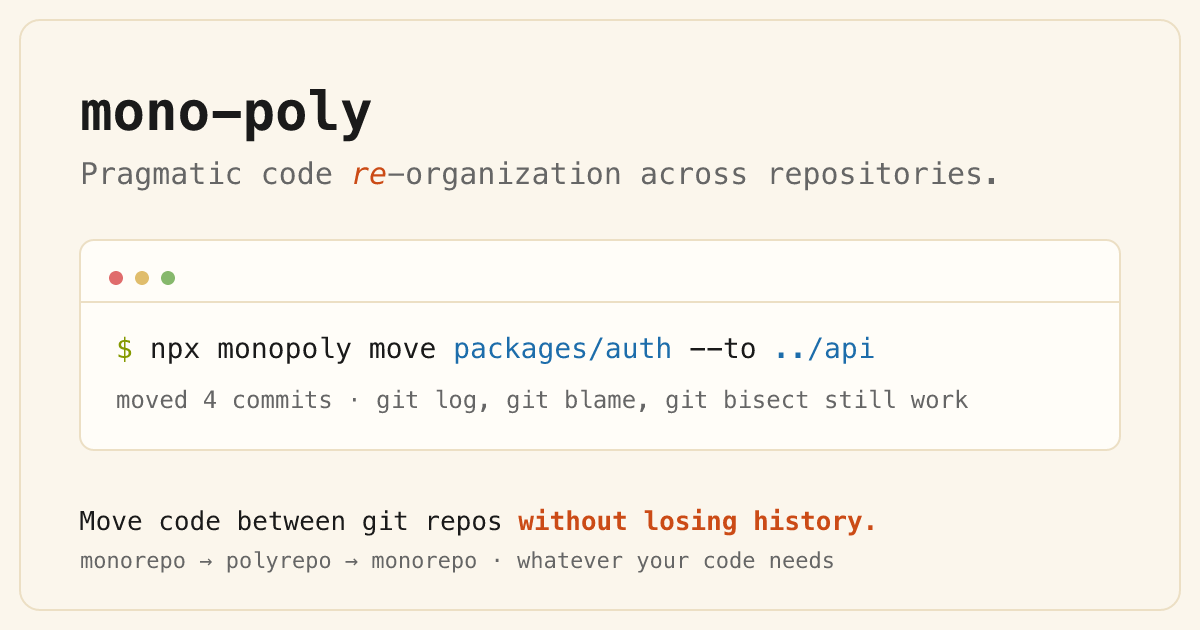
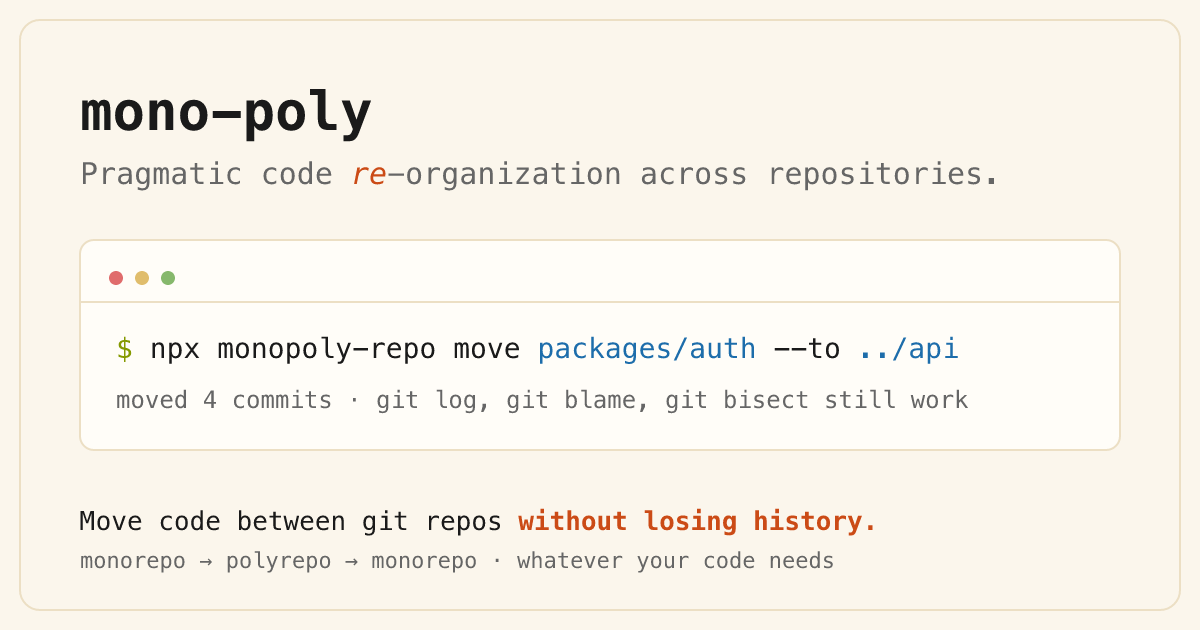
Prepare CLI for npm publish as monopoly-repo
The bare `monopoly` name is taken on npm, so publish under the available
`monopoly-repo` name (binary command stays `monopoly`).

- cli/package.json: rename to monopoly-repo, add license/keywords/engines,
  repository/homepage/bugs metadata, and publishConfig.access=public
- root package.json: rename to monopoly-workspace to avoid a workspace
  name collision with the published package
- add MIT LICENSE (root + cli) and cli/README.md for the npm page
- tsconfig: set rootDir to clear the outDir diagnostic
- update all docs/site/examples to the npx monopoly-repo syntax and
  regenerate the OG image to match

Changed region(s): [[0.3083, 0.5429, 0.8017, 0.573]]

diff --git a/site/scripts/generate-og.ts b/site/scripts/generate-og.ts
@@ -43,7 +43,7 @@ const svg = `<svg xmlns="http://www.w3.org/2000/svg" width="1200" height="630" v
   <line x1="80" y1="302" x2="1120" y2="302" stroke="${BORDER}" stroke-width="2"/>
 
   <text x="116" y="358" font-family="SFMono-Regular, Menlo, monospace" font-size="28">
-    <tspan fill="${PROMPT}">$ </tspan><tspan fill="${FG}">npx monopoly move </tspan><tspan fill="${ACCENT}">packages/auth</tspan><tspan fill="${FG}"> --to </tspan><tspan fill="${ACCENT}">../api</tspan>
+    <tspan fill="${PROMPT}">$ </tspan><tspan fill="${FG}">npx monopoly-repo move </tspan><tspan fill="${ACCENT}">packages/auth</tspan><tspan fill="${FG}"> --to </tspan><tspan fill="${ACCENT}">../api</tspan>
   </text>
   <text x="116" y="408" font-family="SFMono-Regular, Menlo, monospace" font-size="24" fill="${MUTED}">moved 4 commits · git log, git blame, git bisect still work</text>
 

diff --git a/cli/README.md b/cli/README.md
@@ -1,0 +1,52 @@
+# monopoly-repo
+
+> Move code between git repos without losing history.
+
+A small CLI that extracts a file or directory from one git repo and stages it
+into another, carrying its full commit history along with it. Built on
+[`git-filter-repo`](https://github.com/newren/git-filter-repo).
+
+## Install
+
+```sh
+npm install -g monopoly-repo
+```
+
+Or run it on demand without installing:
+
+```sh
+npx monopoly-repo move <source> --to <repo> [--as <path>] [--dry-run]
+```
+
+The installed command is `monopoly`.
+
+## Usage
+
+```sh
+monopoly move <source> --to <repo> [--as <path>] [--dry-run]
+```
+
+### Examples
+
+```sh
+# Move a package from a monorepo to a dedicated repo
+monopoly move packages/auth --to ../auth-service --as auth
+
+# Move a dedicated repo back into a monorepo
+monopoly move auth --to ../my-monorepo --as packages/auth
+
+# Preview without making changes
+monopoly move src/utils/logger.ts --to ../shared --as logger.ts --dry-run
+```
+
+All changes are staged locally. Nothing is committed or pushed — you review
+`git status` in the target repo and commit when ready.
+
+## Requirements
+
+- Node.js >= 18
+- `git` and [`git-filter-repo`](https://github.com/newren/git-filter-repo) on your PATH
+
+## License
+
+MIT — see [LICENSE](./LICENSE). Learn more at [monopoly-repo.dev](https://monopoly-repo.dev).

diff --git a/README.md b/README.md
@@ -16,20 +16,22 @@ Born from a similar bash script I used when files needed to move across repos, t
 ## Usage
 
 ```
-monopoly move <source> --to <repo> [--as <path>] [--dry-run]
+npx monopoly-repo move <source> --to <repo> [--as <path>] [--dry-run]
 ```
 
 Examples
 
 ```bash
 cd my-monorepo
-npx monopoly move packages/auth --to ../auth-service --as auth # Move a package from a monorepo to a dedicated repo
+npx monopoly-repo move packages/auth --to ../auth-service --as auth # Move a package from a monorepo to a dedicated repo
 
 cd auth-service
-npx monopoly move auth --to ../my-monorepo --as packages/auth  # Move a dedicated repo back to the monorepo
+npx monopoly-repo move auth --to ../my-monorepo --as packages/auth  # Move a dedicated repo back to the monorepo
 
-npx monopoly move src/logger.ts --to ../shared                # Move a file from a repo to shared-utils repo
+npx monopoly-repo move src/logger.ts --to ../shared                 # Move a file from a repo to shared-utils repo
 ```
+
+> Installing globally (`npm i -g monopoly-repo`) gives you a shorter `monopoly` command.
 
 **After moving, you review and modify code to ensure things work.**
 